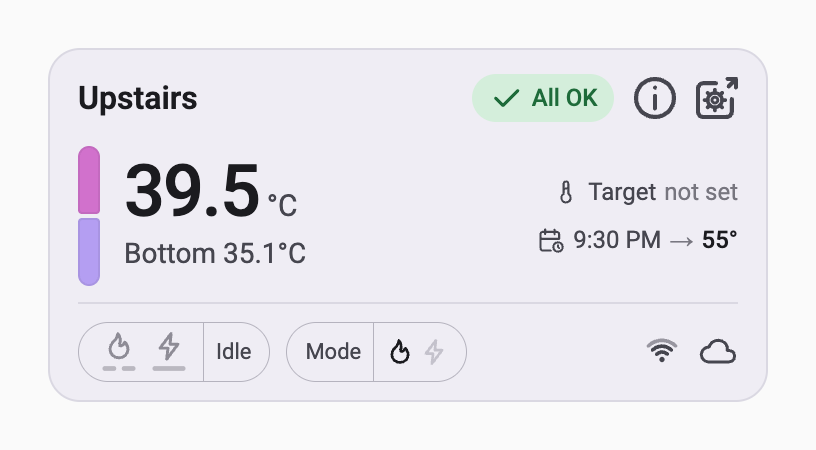
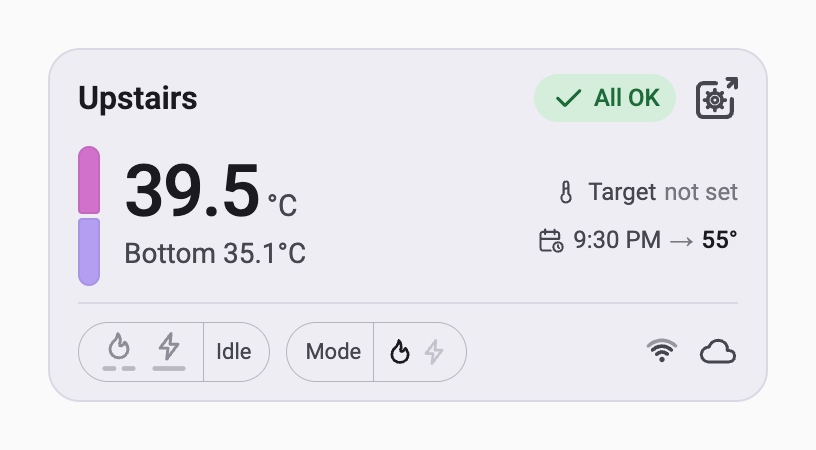
Remove the ⓘ button from the card header
The main reading already opens the same details, so the device page action is the only one after the badge.
Regenerate the README screenshots.

Changed region(s): [[0.5821, 0.1556, 0.8272, 0.28]]

diff --git a/custom_components/ezgeyser/www/card/icons.js b/custom_components/ezgeyser/www/card/icons.js
@@ -8,7 +8,6 @@ export const PATHS = {
   temperature: 'M10 13.5a4 4 0 1 0 4 0v-8.5a2 2 0 0 0-4 0v8.5M10 9h4',
   offline:
     'M3 3l18 18M2 8a16 16 0 0 1 4-2m4-1a16 16 0 0 1 12 3M5 12a11 11 0 0 1 5-2m5 0a11 11 0 0 1 4 2M8 16a6 6 0 0 1 8 0M12 20h.01',
-  info: 'M12 11v6m0-10v.1M3 12a9 9 0 1 0 18 0a9 9 0 0 0-18 0',
   // Calendar-time, calendar-off, beach and x.
   calendarClock:
     'M11.795 21H5a2 2 0 0 1-2-2V7a2 2 0 0 1 2-2h12a2 2 0 0 1 2 2v4M14 18a4 4 0 1 0 8 0a4 4 0 1 0-8 0m1-15v4M7 3v4m-4 4h16M18 16.496V18l1 1',
@@ -67,8 +66,8 @@ export const icon = (name) => html`
     <path d="${PATHS[name]}"/>
   </svg>`;
 
-// The device-page glyph (a window with an outward arrow, and a gear): it shares the info circle's 3..21 geometry; both
-// scale just inside the badge's painted height.
+// The device-page glyph (a window with an outward arrow, and a gear), drawn in 3..21 of the 24 canvas; it scales just
+// inside the badge's painted height.
 const gearTeeth = Array.from({ length: 8 }, (_, i) => {
   const angle = (i * Math.PI) / 4;
   const point = (radius) =>

diff --git a/custom_components/ezgeyser/www/card/templates/header.js b/custom_components/ezgeyser/www/card/templates/header.js
@@ -1,4 +1,4 @@
-// Row 1: the geyser's name, the status badge, main-temperature details, and the device's own web page.
+// Row 1: the geyser's name, the status badge and the device's own web page. The readings open their own details.
 import { html } from '../html.js';
 import { devicePageIcon, icon } from '../icons.js';
 
@@ -22,8 +22,5 @@ export const header = (view) => html`
          title="${view.badge.label}">
       ${icon(view.badge.icon)}<span>${view.badge.text}</span>
     </div>
-    <button class="details-button entity-button" data-entity="${view.main}" aria-label="Open main temperature details">
-      ${icon('info')}
-    </button>
     ${devicePageLink(view.devicePage)}
   </div>`;

diff --git a/custom_components/ezgeyser/www/ezgeyser-card.js b/custom_components/ezgeyser/www/ezgeyser-card.js
@@ -232,8 +232,8 @@ export class EzGeyserCard extends HTMLElement {
   }
 
   // The 3..21 paths plus their 2-unit stroke paint 20/24 of the canvas. A 120% SVG fills its square slot, sized to 88%
-  // of the measured badge height, so the actions don't outweigh the badge; 10 px between slots is also 10 px between
-  // the painted edges.
+  // of the measured badge height, so the action doesn't outweigh the badge; 10 px from the badge is also 10 px from the
+  // painted edge.
   // Measured before the layout cache: font metrics can change the pill height without changing its text.
   _sizeHeaderActions(card) {
     const badge = card.querySelector('.badge');

diff --git a/README.md b/README.md
@@ -181,9 +181,9 @@ setup errors. Installations without Home Assistant's `frontend` skip the card.
 - **Selecting** the flame icon or its bars opens Home Assistant's History page with both flame sensors selected.
   The electrical icon and its bars open history for one or both elements, according to **Electric elements**.
   Both show the last six hours ending at the time you click. A reading, tank half, pill or footer item opens that
-  entity's details and history. ⓘ opens the main temperature. The box-and-gear action beside it opens the geyser's
-  local web page in a new browser tab; its tooltip shows the address. Both action drawings sit just inside the badge's
-  height, scale their widths proportionally, and sit 10 px apart. The browser action is dimmed and disabled while
+  entity's details and history. The box-and-gear action after the badge opens the geyser's local web page in a new
+  browser tab; its tooltip shows the address. Its drawing sits just inside the badge's height, 10 px from the badge.
+  The browser action is dimmed and disabled while
   unreachable or while its address is unavailable. Your browser must be on the geyser's network to reach that page.
 
 Cards are all the same height, follow Home Assistant's light or dark mode, fit their column, and work in Sections and

diff --git a/CHANGELOG.md b/CHANGELOG.md
@@ -15,6 +15,8 @@
 - Card: the **Mode** pill shows the bolt for electric and both icons for Both together, without the arrow, since the live
   source is never a mode.
 - Update the README screenshots and their descriptions.
+- Card: remove the ⓘ button from the header. The main reading opens the same details, so the box-and-gear device page
+  action is now the only one after the badge.
 
 ## 0.6.10 (2026-11-15)
 
